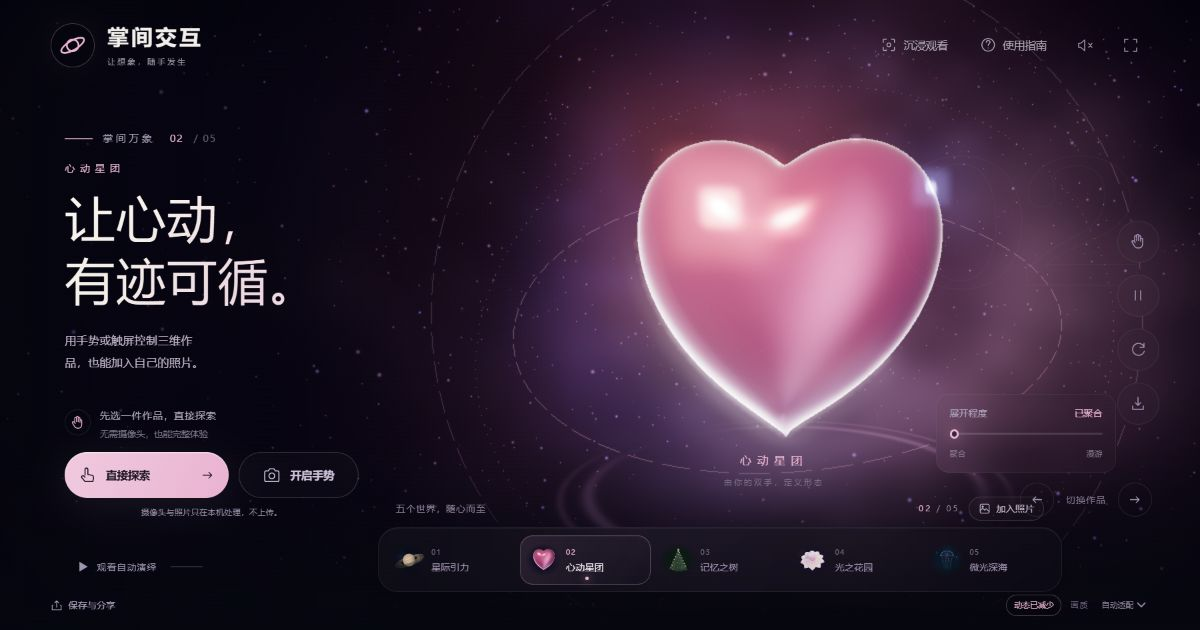
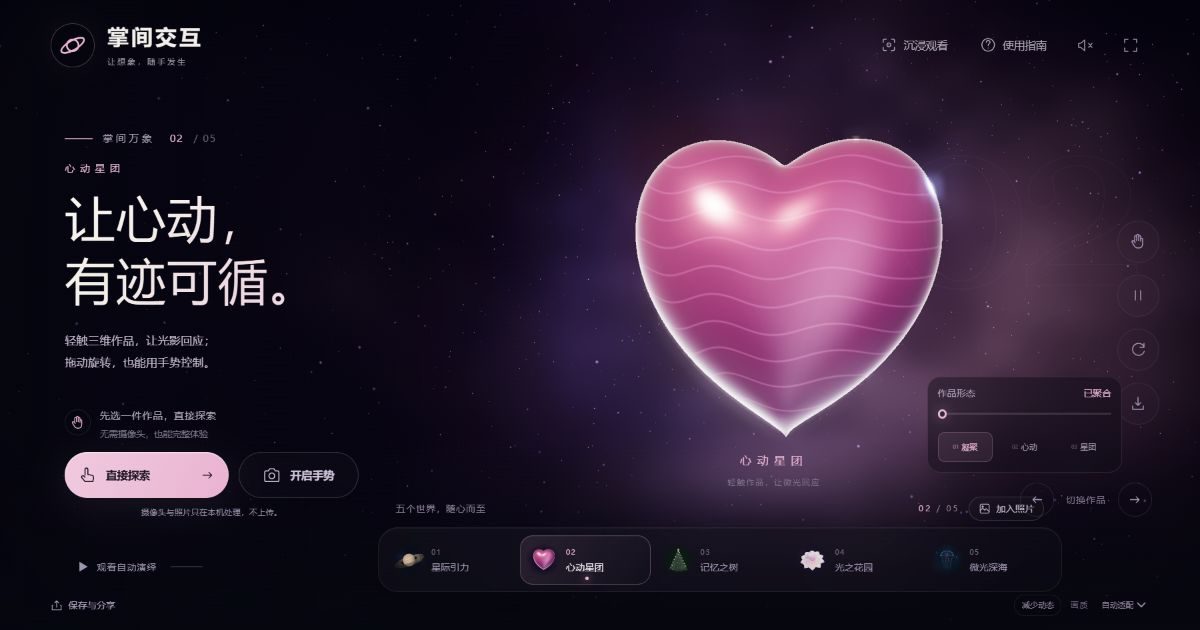
Give scenes distinct forms, viewing stages and responsive light

diff --git a/src/experience.js b/src/experience.js
@@ -9,10 +9,15 @@ import { studioEnvironment, createAtmosphere } from './atmosphere.js';
 import { orbitalPosition } from './swarm.js';
 import { createLightfield } from './lightfield.js';
 import {bindContextRecovery} from './context-recovery.js';
+import {Resonance} from './resonance.js';
+import {createResponseField} from './response-field.js';
+
+const PORTRAIT_SHAPES={heart:{normal:.79,compact:.78,offset:-.5},flower:{normal:.65,compact:.62,offset:-.22},ocean:{normal:.84,compact:.8,offset:.18}};
+const PORTRAIT_WIDTH={heart:.76,flower:.82,ocean:.7};
 
 export class Experience {
-  constructor(container, { onReady=()=>{}, onWorld=()=>{}, onPhotoFocus=()=>{}, onQuality=()=>{}, onPreviews=()=>{}, onMotion=()=>{}, onDemo=()=>{},onInteraction=()=>{},onContext=()=>{},onReducedMotion=()=>{},motionMode='auto' }={}) {
-    Object.assign(this,{container,onReady,onWorld,onPhotoFocus,onQuality,onPreviews,onMotion,onDemo,onInteraction,onContext,onReducedMotion});
+  constructor(container, { onReady=()=>{}, onWorld=()=>{}, onPhotoFocus=()=>{}, onQuality=()=>{}, onPreviews=()=>{}, onMotion=()=>{}, onDemo=()=>{},onInteraction=()=>{},onContext=()=>{},onReducedMotion=()=>{},onResponse=()=>{},motionMode='auto' }={}) {
+    Object.assign(this,{container,onReady,onWorld,onPhotoFocus,onQuality,onPreviews,onMotion,onDemo,onInteraction,onContext,onReducedMotion,onResponse});
     this.motionQuery=matchMedia('(prefers-reduced-motion: reduce)');this.motionOverridden=['reduce','full'].includes(motionMode);this.reducedMotion=this.motionOverridden?motionMode==='reduce':this.motionQuery.matches;
     this.motionHandler=()=>{if(!this.motionOverridden)this.setReducedMotion(this.motionQuery.matches);};this.motionQuery.addEventListener?.('change',this.motionHandler);
     this.scene=new THREE.Scene();this.scene.background=new THREE.Color('#060a13');
@@ -20,6 +25,7 @@ export class Experience {
     this.renderer=new THREE.WebGLRenderer({antialias:true,alpha:false,powerPreference:'high-performance'});
     this.renderer.outputColorSpace=THREE.SRGBColorSpace;this.renderer.toneMapping=THREE.ACESFilmicToneMapping;this.renderer.toneMappingExposure=1.12;
     this.renderer.domElement.setAttribute('aria-label','可拖动、缩放的三维互动场景');this.renderer.domElement.setAttribute('role','img');this.renderer.domElement.tabIndex=0;container.appendChild(this.renderer.domElement);
+    this.renderer.domElement.setAttribute('aria-keyshortcuts','Enter');this.renderer.domElement.setAttribute('aria-description','轻触唤起光波，拖动旋转，滚轮或双指缩放。键盘按回车键也能唤起光波。');
     this.mobile=matchMedia('(pointer:coarse)').matches||innerWidth<760;
     this.qualityMode='auto';this.quality=this.mobile?.58:1;this.pixelRatio=Math.min(devicePixelRatio||1,this.mobile?1.3:1.8);
     this.environmentTarget=studioEnvironment(this.renderer);this.environment=this.environmentTarget.texture;this.scene.environment=this.environment;
@@ -37,13 +43,15 @@ export class Experience {
     this.stars=makeStarfield();this.scene.add(this.stars.object);
     this.scatter=0;this.targetScatter=0;this.controlFraction=0;this.open=1;this.targetOpen=1;this.yaw=0;this.pitch=0;this.targetYaw=0;this.targetPitch=0;this.elapsed=0;this.frozen=false;this.lastTime=performance.now();this.lastUserInput=0;this.hasHands=false;this.photoLayer=new THREE.Group();this.scene.add(this.photoLayer);this.photos=[];this.photoFaces=[];this.raycaster=new THREE.Raycaster();this.pointer=new THREE.Vector2();this.lastPinch=false;this.grabbed=null;this.focused=null;this.lastDoubleHandDistance=null;
     this.makeTrail();
+    this.resonance=new Resonance();this.responseField=createResponseField();this.scene.add(this.responseField.root);
     this.resizeObserver=new ResizeObserver(()=>this.resize());this.resizeObserver.observe(container);this.resize();
     this.reveal=1;
     this.renderer.domElement.addEventListener('dblclick',()=>this.toggleSpread());
     this.activePointers=new Set();
     this.renderer.domElement.addEventListener('pointerdown',event=>{this.activePointers.add(event.pointerId);this.tapStart=this.activePointers.size===1?{id:event.pointerId,x:event.clientX,y:event.clientY,time:performance.now()}:null;});
-    this.renderer.domElement.addEventListener('pointerup',event=>{const start=this.tapStart;this.activePointers.delete(event.pointerId);if(start?.id===event.pointerId&&Math.hypot(event.clientX-start.x,event.clientY-start.y)<8&&performance.now()-start.time<500)this.pickPhoto(event.clientX/innerWidth,event.clientY/innerHeight,false);this.tapStart=null;});
+    this.renderer.domElement.addEventListener('pointerup',event=>{const start=this.tapStart;this.activePointers.delete(event.pointerId);if(start?.id===event.pointerId&&Math.hypot(event.clientX-start.x,event.clientY-start.y)<8&&performance.now()-start.time<500){const x=event.clientX/innerWidth,y=event.clientY/innerHeight;if(!this.pickPhoto(x,y,false))this.pulse(x,y);}this.tapStart=null;});
     this.renderer.domElement.addEventListener('pointercancel',event=>{this.activePointers.delete(event.pointerId);this.tapStart=null;});
+    this.renderer.domElement.addEventListener('keydown',event=>{if(event.key==='Enter'){event.preventDefault();this.onInteraction();this.pulse();}});
     this.slowTime=0;this.performanceFrames=0;this.performanceTime=0;this.performanceAdjusted=false;
     this.removeContextRecovery=bindContextRecovery(this.renderer.domElement,{pause:()=>{this.contextLost=true;cancelAnimationFrame(this.frame);this.setDemo(false);this.onContext('lost');},rebuild:()=>this.restoreGraphics(),resume:()=>{this.contextLost=false;this.resumeRendering();},onState:(state)=>{if(state!=='lost')this.onContext(state);}});
     this.ready=this.preparePreviews().then(()=>{if(this.disposed)return;this.prepared=true;this.resumeRendering();this.onReducedMotion(this.reducedMotion);this.onReady();});
@@ -65,14 +73,15 @@ export class Experience {
     const w=this.container.clientWidth,h=this.container.clientHeight;if(!w||!h)return;
     this.width=w;this.height=h;const portrait=w<=900&&h>w,shortLandscape=h<560&&w>h,compact=portrait&&h<730;
     this.camera.aspect=w/h;
-    this.homeDistance=this.immersive?(portrait?26:shortLandscape?21:18.5):portrait?(compact?45:32):shortLandscape?24:19.8;
+    this.homeDistance=this.immersive?(portrait?26:shortLandscape?21:18.5):portrait?(compact?45:36.5):shortLandscape?24:19.8;
     if(!this.wasSized||portrait!==this.wasPortrait||compact!==this.wasCompact||shortLandscape!==this.wasShortLandscape||this.immersive!==this.wasImmersive){this.camera.position.set(0,portrait?3.1:2.3,this.homeDistance);this.controls.target.set(0,0,0);this.controls.update();this.wasSized=true;this.wasPortrait=portrait;this.wasCompact=compact;this.wasShortLandscape=shortLandscape;this.wasImmersive=this.immersive;}
-    const yOffset=this.immersive?0:portrait?(compact?h*.065:h*.02):h*.035;
+    const yOffset=this.immersive?0:portrait?(compact?h*.115:h*.055):h*.035;
     this.camera.setViewOffset(w,h,portrait||this.immersive?0:-w*.155,yOffset,w,h);this.camera.updateProjectionMatrix();this.renderer.setPixelRatio(this.pixelRatio);this.renderer.setSize(w,h);this.composer.setPixelRatio(this.pixelRatio);this.composer.setSize(w,h);
   }
   setWorld(id) {
     const next=this.worlds.find(world=>world.id===id);if(!next||next===this.current)return;
-    this.current.root.visible=false;this.current=next;this.current.root.visible=true;this.reveal=0;this.scene.background.set(next.bg);this.atmosphere.setWorld(next);this.lightfield.setWorld(next);this.bloom.strength=next.id==='flower'?.38:next.id==='tree'?.7:next.id==='ocean'?.7:.58;this.bloom.threshold=next.id==='flower'?1.2:1.05;this.targetScatter=0;this.controlFraction=next.id==='flower'?.55:0;this.targetOpen=1;this.targetYaw=0;this.targetPitch=0;this.grabbed=null;this.focused=null;this.lastPinch=false;this.onPhotoFocus(null);this.onWorld(next);this.lastUserInput=performance.now();
+    this.resonance.reset();this.responseField.root.visible=false;
+    this.current.root.visible=false;this.current=next;this.current.root.visible=true;this.reveal=0;this.scene.background.set(next.bg);this.atmosphere.setWorld(next);this.lightfield.setWorld(next);this.bloom.strength=next.id==='flower'?.38:next.id==='tree'?.7:next.id==='ocean'?.7:next.id==='heart'?.4:.58;this.bloom.threshold=next.id==='flower'?1.2:1.05;this.targetScatter=0;this.controlFraction=next.id==='flower'?.55:0;this.targetOpen=1;this.targetYaw=0;this.targetPitch=0;this.grabbed=null;this.focused=null;this.lastPinch=false;this.onPhotoFocus(null);this.onWorld(next);this.lastUserInput=performance.now();
     this.camera.position.set(0,this.wasPortrait?3.1:2.3,this.homeDistance);this.controls.target.set(0,0,0);this.controls.update();
   }
   nextWorld(){const index=this.worlds.indexOf(this.current);this.setWorld(this.worlds[(index+1)%this.worlds.length].id);}
@@ -86,7 +95,9 @@ export class Experience {
     this.composer.render();
   }
   toggleSpread(){const expanded=this.targetScatter<.5;this.controlFraction=expanded?1:0;this.targetScatter=expanded?.94:0;this.targetOpen=expanded?1:.15;return expanded;}
-  setMorph(value,{immediate=false}={}){const amount=THREE.MathUtils.clamp(value,0,1);this.controlFraction=amount;if(this.current.id==='flower'){this.targetOpen=THREE.MathUtils.smoothstep(amount,0,.55);this.targetScatter=THREE.MathUtils.smoothstep(amount,.55,1)*.94;}else{this.targetScatter=amount*.94;this.targetOpen=.15+amount*.85;}if(immediate){this.scatter=this.targetScatter;this.open=this.targetOpen;}}
+  setMorph(value,{immediate=false,respond=false}={}){const amount=THREE.MathUtils.clamp(value,0,1);this.controlFraction=amount;if(this.current.id==='flower'){this.targetOpen=THREE.MathUtils.smoothstep(amount,0,.55);this.targetScatter=THREE.MathUtils.smoothstep(amount,.55,1)*.94;}else{this.targetScatter=amount*.94;this.targetOpen=.15+amount*.85;}if(immediate){this.scatter=this.targetScatter;this.open=this.targetOpen;}if(respond)this.pulse();}
+  pulse(x,y){if(!this.prepared||this.contextLost||!this.resonance.trigger(performance.now()))return false;this.showResponse(x,y);return true;}
+  showResponse(x,y){if(x===undefined||y===undefined){const p=this.controls.target.clone().project(this.camera);x=(p.x+1)/2;y=(1-p.y)/2;}this.responseField.fire(this.unproject(x,y,1),this.current.color);this.onResponse(this.current);}
   toggleFreeze(){this.frozen=!this.frozen;return this.frozen;}
   setQuality(mode){this.qualityMode=mode;this.quality=mode==='high'?1:mode==='low'?.38:(this.mobile?.58:1);this.pixelRatio=Math.min(devicePixelRatio||1,mode==='high'?1.9:mode==='low'?1:(this.mobile?1.3:1.8));this.resize();this.onQuality(mode);}
   resetView(){this.setDemo(false);this.controlFraction=this.current.id==='flower'?.55:0;this.targetScatter=0;this.targetOpen=1;this.targetYaw=0;this.targetPitch=0;this.frozen=false;this.grabbed=null;this.focused=null;this.onPhotoFocus(null);this.wasSized=false;this.resize();}
@@ -96,6 +107,7 @@ export class Experience {
     const hand=hands[0];this.lastUserInput=time;
     if(hands.length>1){const distance=Math.hypot(hands[0].x-hands[1].x,hands[0].y-hands[1].y);if(this.lastDoubleHandDistance!==null){const ratio=THREE.MathUtils.clamp(this.lastDoubleHandDistance/Math.max(distance,.1),.92,1.08);this.camera.position.multiplyScalar(ratio);const length=THREE.MathUtils.clamp(this.camera.position.length(),this.controls.minDistance,this.controls.maxDistance);this.camera.position.setLength(length);}this.lastDoubleHandDistance=distance;if(this.grabbed)this.releaseGrab();this.lastPinch=false;return;}else this.lastDoubleHandDistance=null;
     if(hand.pose==='palm'||hand.pose==='fist'){
+      if(this.resonance.observe(hand.openness,time))this.showResponse(hand.x,hand.y);
       this.targetOpen=hand.openness;
       this.targetScatter=this.current.id==='flower'?THREE.MathUtils.smoothstep(hand.openness,.72,1)*.94:THREE.MathUtils.smoothstep(hand.openness,.25,.9)*.94;
       this.controlFraction=this.current.id==='flower'?(this.targetOpen<.99?this.targetOpen*.55:.55+this.targetScatter/.94*.45):this.targetScatter/.94;
@@ -148,11 +160,13 @@ export class Experience {
     if(this.demo&&this.demoOnce&&this.elapsed-this.demoStart>=18){this.setMorph(0);this.setDemo(false,{completed:true});}
     if(this.demo){const phase=(this.elapsed-this.demoStart)%18,amount=phase<3?0:phase<9?THREE.MathUtils.smoothstep(phase,3,9):phase<12?1:1-THREE.MathUtils.smoothstep(phase,12,18);this.setMorph(amount);this.targetYaw=Math.sin(this.elapsed*.17)*.22;this.targetPitch=Math.sin(this.elapsed*.11)*.05;}
     this.scatter=THREE.MathUtils.damp(this.scatter,this.targetScatter,2.2,delta);this.open=THREE.MathUtils.damp(this.open,this.targetOpen,3,delta);this.yaw=THREE.MathUtils.damp(this.yaw,this.targetYaw,3,delta);this.pitch=THREE.MathUtils.damp(this.pitch,this.targetPitch,3,delta);
-    this.reveal=this.reducedMotion&&!this.demo?1:THREE.MathUtils.damp(this.reveal,1,3.4,delta);this.current.root.scale.setScalar(this.current.scale*(.65+this.reveal*.35));
+    const response=this.resonance.step(delta);
+    const portraitShape=this.wasPortrait&&!this.immersive?PORTRAIT_SHAPES[this.current.id]:null,spreadFit=portraitShape?THREE.MathUtils.lerp(1,this.wasCompact?portraitShape.compact:portraitShape.normal,THREE.MathUtils.smoothstep(this.scatter,.15,.85)):1;
+    this.reveal=this.reducedMotion&&!this.demo?1:THREE.MathUtils.damp(this.reveal,1,3.4,delta);this.current.root.scale.setScalar(this.current.scale*spreadFit*(.65+this.reveal*.35)*(1+(!this.reducedMotion&&!this.frozen?response*.025:0)));this.current.root.position.y=portraitShape?this.scatter*portraitShape.offset:0;
     this.current.root.rotation.y=this.yaw+(!this.hasHands?Math.sin(this.elapsed*.11)*.09:0)+(1-this.reveal)*.45;this.current.root.rotation.x=this.pitch;
     this.controls.autoRotate=false;this.controls.update();
-    const framing=this.wasPortrait?.62:1;
-    updateWorld(this.current,this.elapsed,this.scatter,this.open,this.quality,framing);this.stars.update(this.elapsed,0);this.stars.quality(this.quality);this.stars.object.rotation.y=this.elapsed*.001;this.atmosphere.update(this.elapsed);this.lightfield.update(this.elapsed,this.scatter,this.quality,framing,this.camera);
+    const framing=this.wasPortrait?(PORTRAIT_WIDTH[this.current.id]||.62):1;
+    updateWorld(this.current,this.elapsed,this.scatter,this.open,this.quality,framing,response);this.stars.update(this.elapsed,0);this.stars.quality(this.quality);this.stars.object.rotation.y=this.elapsed*.001;this.atmosphere.update(this.elapsed);this.lightfield.update(this.elapsed,this.scatter,this.quality,framing,this.camera,response);this.responseField.update(this.resonance.age,response,this.reducedMotion,this.camera);
     const fraction=this.current.id==='flower'?(this.open<.99?this.open*.55:.55+this.scatter/.94*.45):this.scatter/.94;this.onMotion({fraction,controlFraction:this.controlFraction,expanded:this.targetScatter>.5,world:this.current.id});
     this.trail.material.uniforms.uTime.value=this.trailClock||0;
     this.current.root.updateMatrixWorld(true);

diff --git a/src/worlds.js b/src/worlds.js
@@ -1,8 +1,9 @@
 import * as THREE from 'three';
 import { mergeVertices } from 'three/addons/utils/BufferGeometryUtils.js';
-import { createSwarm, orbitalPosition } from './swarm.js';
+import { createSwarm } from './swarm.js';
 import { heartSurface, crystalHeart, pineBranches, petalTexture, orbitLines } from './sculptures.js';
 import { jellyModel as detailedJelly } from './jelly.js';
+import {heartCloud,galaxyArm,oceanCurrent} from './scene-layout.js';
 
 const TAU = Math.PI * 2;
 export const WORLD_INFO = [
@@ -89,7 +90,7 @@ function createSaturn(info, texture) {
   field.object.rotation.x=0;
   const orbitDust=addField(world,new ParticleField(2800,(r)=>{const rad=6+Math.pow(r(),.5)*5,a=r()*TAU;return [Math.cos(a)*rad,(r()-.5)*.8,Math.sin(a)*rad];},['#99a8ba','#6c76a0','#a58d70'],{size:.025,brightness:.32,seed:26}));orbitDust.object.rotation.set(.14,.2,.2);
   const moon=new THREE.Mesh(new THREE.SphereGeometry(.26,32,20),new THREE.MeshStandardMaterial({color:'#6e7784',roughness:.95,envMapIntensity:.08}));moon.position.set(5.9,1.3,-5.4);world.body.add(moon);remember(world,moon);
-  const littlePlanets=createSwarm({geometry:new THREE.SphereGeometry(1,24,16),material:new THREE.MeshStandardMaterial({map,roughness:.72,metalness:.08,envMapIntensity:.2}),count:76,random:randomFactory(818),target:r=>{const a=r()*TAU,rad=r()<.55?1.3+r()*1.1:3+r()*2.2;return[Math.cos(a)*rad,(r()-.5)*1.8,Math.sin(a)*rad];},palette:['#d1b18c','#929eac','#b89d9e'],size:.21,spin:.14,destination:(r,i,n)=>orbitalPosition(r,i,n,{radius:6.5,bands:3,height:3.8,depth:2.9})});
+  const littlePlanets=createSwarm({geometry:new THREE.SphereGeometry(1,24,16),material:new THREE.MeshStandardMaterial({map,roughness:.72,metalness:.08,envMapIntensity:.2}),count:76,random:randomFactory(818),target:r=>{const a=r()*TAU,rad=r()<.55?1.3+r()*1.1:3+r()*2.2;return[Math.cos(a)*rad,(r()-.5)*1.8,Math.sin(a)*rad];},palette:['#d1b18c','#929eac','#b89d9e'],size:.21,spin:.14,destination:galaxyArm});
   const littleRings=new THREE.InstancedMesh(new THREE.RingGeometry(1.38,2.2,48).rotateX(-1.12).rotateZ(.28),new THREE.MeshStandardMaterial({color:'#b19b77',roughness:.65,metalness:.2,side:THREE.DoubleSide}),76);littleRings.frustumCulled=false;littleRings.instanceMatrix.setUsage(THREE.DynamicDrawUsage);world.body.add(littlePlanets.mesh,littleRings);
   const orbits=orbitLines();world.body.add(orbits.group);
   sphere.material.transparent=true;
@@ -121,16 +122,16 @@ function createHeart(info,texture) {
   const geometry=roundedHeartGeometry();
   const sculpture=crystalHeart(geometry),heart=sculpture.root;heart.rotation.y=-.18;world.body.add(heart);
   const heartVolume=r=>{const p=heartSurface(Math.acos(r()*2-1),r()*TAU),k=Math.pow(r(),1/3);return p.map((v,i)=>i===1?(v+.35)*k-.35:v*k);};
-  const hearts=createSwarm({geometry:roundedHeartGeometry(32,12),material:new THREE.MeshPhysicalMaterial({color:'#ffffff',metalness:.5,roughness:.16,clearcoat:1,iridescence:.32,envMapIntensity:1.25}),count:320,random:randomFactory(735),target:heartVolume,palette:['#e993bc','#bc578b','#f3c8db','#d4b1a0'],size:.064,spin:.13,destination:(r,i,n)=>orbitalPosition(r,i,n,{radius:6.5,bands:3,height:4.2,depth:2.6})});
+  const hearts=createSwarm({geometry:roundedHeartGeometry(28,10),material:new THREE.MeshPhysicalMaterial({color:'#ffffff',metalness:.3,roughness:.26,clearcoat:.7,iridescence:.24,envMapIntensity:1.1}),count:440,random:randomFactory(735),target:heartVolume,palette:['#e993bc','#ba4a80','#edc8db','#c89fc8'],size:.065,spin:.13,destination:heartCloud});
   world.body.add(hearts.mesh);
   const sparkles=addField(world,new ParticleField(1800,r=>{const p=heartSurface(Math.acos(r()*2-1),r()*TAU),scale=1.015+r()*.05;return p.map(v=>v*scale);},['#f2bad5','#d3b0ed','#f0d4b9'],{size:.018,brightness:.55}),heart);
   const halo=nebula(world.body,'#bc417b',texture,[0,.2,-1],10,.1);remember(world,halo);
   nebula(world.root,'#713468',texture,[5,0,-9],24,.13);nebula(world.root,'#50357a',texture,[-8,-4,-12],22,.1);
   world.photoTarget=(i,n)=>{const a=i/n*TAU;return new THREE.Vector3(Math.cos(a)*5.1,Math.sin(a)*3.8+.3,Math.sin(a*2)*1.5+1);};
-  world.update=(time,scatter,openness,quality,framing)=>{
+  world.update=(time,scatter,openness,quality,framing,response=0)=>{
     const dissolve=THREE.MathUtils.smoothstep(scatter,.16,.7),beat=1+Math.sin(time*1.8)*.009;
     heart.rotation.y=-.2+Math.sin(time*.19)*.11;heart.scale.setScalar(beat*(1-dissolve*.06));
-    sculpture.update(time,1-dissolve);heart.visible=dissolve<.998;
+    sculpture.update(time,1-dissolve,response);heart.visible=dissolve<.998;
     hearts.update(time,scatter,quality,THREE.MathUtils.smoothstep(scatter,.15,.85),framing);
     sparkles.material.uniforms.uOpacity.value=.13*(1-dissolve);halo.material.opacity=.065*(1-scatter*.35);
   };
@@ -180,7 +181,7 @@ function createFlower(info,texture) {
   world.photoTarget=(i,n)=>{const a=i/n*TAU;return new THREE.Vector3(Math.cos(a)*5,Math.sin(a)*3.4,Math.sin(a)*1.5);};
   world.update=(time,scatter,openness,quality,framing)=>{
     const fold=1-THREE.MathUtils.clamp(openness,0,1),flight=THREE.MathUtils.smoothstep(scatter,.28,.94);
-    petals.forEach((petal,i)=>{const {angle,layer,baseY}=petal.userData;petal.morphTargetInfluences[0]=(1-THREE.MathUtils.smoothstep(openness,layer*.08,.68+layer*.1))*.88;petal.position.set(Math.sin(angle)*(3.2+layer*.5)*flight*framing,baseY+Math.sin(i*2.1)*2.8*flight,Math.cos(angle)*(3.2+layer*.5)*flight);petal.rotation.y=angle+flight*Math.sin(time*.14+i)*.65;petal.rotation.x=flight*Math.sin(time*.23+i)*.5;petal.rotation.z=Math.sin(time*.38+i)*(.012+flight*.35);petal.scale.setScalar(1-flight*.3);});
+    petals.forEach((petal,i)=>{const {angle,layer,baseY}=petal.userData,path=angle+flight*1.25+Math.sin(time*.1+i)*flight*.2;petal.morphTargetInfluences[0]=(1-THREE.MathUtils.smoothstep(openness,layer*.08,.68+layer*.1))*.88;petal.position.set(Math.sin(path)*(3.2+layer*.5)*flight*framing,baseY+(Math.sin(i*2.1)*2.8+(i%5)*.28-.6)*flight,Math.cos(path)*(3.2+layer*.5)*flight*.72);petal.rotation.y=path+flight*Math.sin(time*.14+i)*.3;petal.rotation.x=flight*Math.sin(time*.23+i)*.5;petal.rotation.z=Math.sin(time*.38+i)*(.012+flight*.35);petal.scale.setScalar(1-flight*.3);});
     flower.rotation.y=Math.sin(time*.12)*.1;flower.scale.setScalar(1);stamen.material.transparent=true;stamen.material.opacity=(1-fold*.9)*(1-flight);pollen.material.uniforms.uOpacity.value=.6;
   };
   return world;
@@ -189,7 +190,7 @@ function createFlower(info,texture) {
 function createOcean(info,texture) {
   const world=baseWorld(info,texture),jellies=[detailedJelly(1,[0,1.4,0]),detailedJelly(.28,[-4.3,2.3,-4],{detail:.5}),detailedJelly(.38,[4.1,.4,-5],{detail:.5})];jellies.forEach(j=>world.body.add(j.root));
   const nursery=detailedJelly(1,[0,0,0],{detail:.5}),babyCount=26;
-  const babies=createSwarm({geometry:nursery.bellGeometry,material:nursery.material,count:babyCount,random:randomFactory(644),target:r=>{const a=r()*TAU,rad=r()*1.6;return[Math.cos(a)*rad,1+r()*1.5,Math.sin(a)*rad];},palette:['#9deae7','#c5aceb'],size:.23,spin:.04,destination:(r,i,n)=>orbitalPosition(r,i,n,{radius:6,bands:3,height:4.4,depth:3})});
+  const babies=createSwarm({geometry:nursery.bellGeometry,material:nursery.material,count:babyCount,random:randomFactory(644),target:r=>{const a=r()*TAU,rad=r()*1.6;return[Math.cos(a)*rad,1+r()*1.5,Math.sin(a)*rad];},palette:['#9deae7','#c5aceb'],size:.23,spin:.04,destination:oceanCurrent});
   const parts=[[nursery.tendrilGeometry,nursery.tendrilMaterial],[nursery.armGeometry,nursery.armMaterial],[nursery.ring.geometry,nursery.ring.material],[nursery.organGeometry,nursery.organMaterial]].map(([geometry,material])=>{const mesh=new THREE.InstancedMesh(geometry,material,babyCount);mesh.frustumCulled=false;mesh.instanceMatrix.setUsage(THREE.DynamicDrawUsage);return mesh;});world.body.add(babies.mesh,...parts);
   addField(world,new ParticleField(2000,r=>[(r()-.5)*18,(r()-.5)*15,-2-r()*10],['#547f91','#747a9c','#6eaaa9'],{size:.035,brightness:.35}));
   nebula(world.root,'#1b627b',texture,[0,7,-10],27,.16);nebula(world.root,'#263955',texture,[-6,-5,-10],23,.13);
@@ -211,7 +212,7 @@ export function makeStarfield() {
   const rng=randomFactory(2026),field=new ParticleField(1600,()=>{const a=rng()*TAU,z=rng()*2-1,r=35+rng()*32,s=Math.sqrt(1-z*z);return[Math.cos(a)*s*r,z*r,Math.sin(a)*s*r];},['#b5bacb','#91a3bf','#a99a9b'],{size:.085,brightness:.48});return field;
 }
 
-export function updateWorld(world,time,scatter,openness,quality,framing=1) {
+export function updateWorld(world,time,scatter,openness,quality,framing=1,response=0) {
   world.fields.forEach(field=>{field.update(time,scatter);field.quality(quality);});
-  world.update?.(time,scatter,openness,quality,framing);
+  world.update?.(time,scatter,openness,quality,framing,response);
 }

diff --git a/src/lightfield.js b/src/lightfield.js
@@ -7,21 +7,21 @@ const vertex = `varying vec2 vUv;void main(){vUv=uv;gl_Position=projectionMatrix
 export function createLightfield() {
   const root = new THREE.Group();
   const color = new THREE.Color('#e1bb87'), secondary = new THREE.Color('#6d82c8');
-  const uniforms = {uTime:{value:0},uColor:{value:color},uSecondary:{value:secondary},uEnergy:{value:0},uOcean:{value:0}};
+  const uniforms = {uTime:{value:0},uColor:{value:color},uSecondary:{value:secondary},uEnergy:{value:0},uOcean:{value:0},uStyle:{value:0}};
   const haze = new THREE.Mesh(new THREE.PlaneGeometry(38,27),new THREE.ShaderMaterial({
     uniforms,vertexShader:vertex,transparent:true,depthWrite:false,blending:THREE.AdditiveBlending,
-    fragmentShader:`varying vec2 vUv;uniform float uTime;uniform vec3 uColor;uniform vec3 uSecondary;uniform float uEnergy;
+    fragmentShader:`varying vec2 vUv;uniform float uTime;uniform vec3 uColor;uniform vec3 uSecondary;uniform float uEnergy;uniform float uStyle;
     float hash(vec2 p){return fract(sin(dot(p,vec2(127.1,311.7)))*43758.5453);}
     float noise(vec2 p){vec2 i=floor(p),f=fract(p);f=f*f*(3.-2.*f);return mix(mix(hash(i),hash(i+vec2(1.,0.)),f.x),mix(hash(i+vec2(0.,1.)),hash(i+vec2(1.,1.)),f.x),f.y);}
     float fbm(vec2 p){float f=0.,a=.5;for(int i=0;i<3;i++){f+=noise(p)*a;p=p*2.07+3.1;a*=.5;}return f;}
-    void main(){vec2 p=(vUv-.5)*vec2(1.25,1.);float r=length(p);float mist=fbm(p*5.+vec2(uTime*.012,-uTime*.009));float cloud=exp(-r*r*12.)*pow(mist,1.8);float halo=exp(-pow((r-.28)*18.,2.))*.14;float ray=pow(max(0.,1.-abs(p.x+p.y*.26)*2.5),8.)*exp(-length(p-vec2(.05,.12))*4.);vec3 c=mix(uSecondary,uColor,smoothstep(-.3,.4,p.x));float a=(cloud*.35+halo*.12+ray*.025)*(1.+uEnergy*.35);gl_FragColor=vec4(c*(.65+mist),a);}`
+    void main(){vec2 p=(vUv-.5)*vec2(1.25,1.);float r=length(p);float mist=fbm(p*5.+vec2(uTime*.012,-uTime*.009));float cloud=exp(-r*r*12.)*pow(mist,1.8);float halo=exp(-pow((r-.28)*18.,2.))*.14;float ray=pow(max(0.,1.-abs(p.x+p.y*.26)*2.5),8.)*exp(-length(p-vec2(.05,.12))*4.);float curtain=0.;if(uStyle>3.5){curtain=pow(max(0.,sin((p.x+p.y*.22)*32.+sin(p.y*3.+uTime*.04)*.8)),16.)*smoothstep(-.45,.3,p.y)*exp(-abs(p.x)*3.)*.11;halo=0.;}else if(uStyle>1.5&&uStyle<2.5){curtain=pow(max(0.,sin(p.x*17.+mist*3.+uTime*.045)),6.)*smoothstep(-.35,.3,p.y)*exp(-r*2.)*.035;halo=0.;}vec3 c=mix(uSecondary,uColor,smoothstep(-.3,.4,p.x));float a=(cloud*.29+halo*.08+ray*.025+curtain)*(1.+uEnergy*.35);gl_FragColor=vec4(c*(.65+mist),a);}`
   }));
   haze.position.set(0,0,-10);root.add(haze);
 
   const floor = new THREE.Mesh(new THREE.PlaneGeometry(32,32),new THREE.ShaderMaterial({
     uniforms,vertexShader:vertex,transparent:true,depthWrite:false,blending:THREE.AdditiveBlending,side:THREE.DoubleSide,
-    fragmentShader:`varying vec2 vUv;uniform float uTime;uniform vec3 uColor;uniform vec3 uSecondary;uniform float uEnergy;uniform float uOcean;
-    void main(){vec2 p=(vUv-.5)*2.;float r=length(p);float glow=exp(-r*r*22.);float rim=exp(-pow((r-.3)*100.,2.))*.1+exp(-pow((r-.34)*170.,2.))*.055;float wave=pow(max(0.,sin(r*75.-uTime*.8)),18.)*exp(-r*7.)*.13*uOcean;float arc=.5+.5*sin(atan(p.y,p.x)*2.+uTime*.13);vec3 c=mix(uSecondary,uColor,.72);gl_FragColor=vec4(c,(glow*.035+rim*arc+wave)*(1.+uEnergy*.6));}`
+    fragmentShader:`varying vec2 vUv;uniform float uTime;uniform vec3 uColor;uniform vec3 uSecondary;uniform float uEnergy;uniform float uOcean;uniform float uStyle;
+    void main(){vec2 p=(vUv-.5)*2.;float r=length(p);float glow=exp(-r*r*22.);float rim=(exp(-pow((r-.3)*100.,2.))*.1+exp(-pow((r-.34)*170.,2.))*.055)*(1.-step(.5,uStyle));float wave=pow(max(0.,sin(r*75.-uTime*.8)),18.)*exp(-r*7.)*.13*uOcean;float arc=.5+.5*sin(atan(p.y,p.x)*2.+uTime*.13);vec3 c=mix(uSecondary,uColor,.72);gl_FragColor=vec4(c,(glow*.09+rim*arc+wave)*(1.+uEnergy*.6));}`
   }));
   floor.rotation.x=-Math.PI/2;floor.position.y=-4.7;root.add(floor);
 
@@ -48,11 +48,11 @@ export function createLightfield() {
 
   const targetColor=color.clone(),targetSecondary=secondary.clone();
   let worldId='saturn';
-  return {root,setWorld(world){worldId=world.id;targetColor.set(world.color);targetSecondary.set({saturn:'#687fd1',heart:'#9979e5',tree:'#448d7b',flower:'#9b85d4',ocean:'#a67cdb'}[world.id]);uniforms.uOcean.value=world.id==='ocean'?1:0;},
-    update(time,scatter,quality,framing,camera){
-      color.lerp(targetColor,.035);secondary.lerp(targetSecondary,.035);uniforms.uTime.value=time;uniforms.uEnergy.value=scatter;
+  return {root,setWorld(world){worldId=world.id;targetColor.set(world.color);targetSecondary.set({saturn:'#687fd1',heart:'#9979e5',tree:'#448d7b',flower:'#9b85d4',ocean:'#a67cdb'}[world.id]);uniforms.uOcean.value=world.id==='ocean'?1:0;uniforms.uStyle.value=['saturn','heart','tree','flower','ocean'].indexOf(world.id);},
+    update(time,scatter,quality,framing,camera,response=0){
+      color.lerp(targetColor,.035);secondary.lerp(targetSecondary,.035);uniforms.uTime.value=time;uniforms.uEnergy.value=scatter+response*.5;
       haze.quaternion.copy(camera.quaternion);orbits.rotation.y=time*.025;orbits.rotation.z=-.12+Math.sin(time*.08)*.035;orbits.scale.set(framing,1,1);
-      const visibility={saturn:.18,heart:.13,tree:.08,flower:.11,ocean:.09}[worldId];
+      const visibility=worldId==='saturn'?.14:0;
       orbitMaterials.forEach((m,i)=>{m.color.copy(color);m.opacity=visibility*(1-i*.2)*(1+scatter*.4);});
       dust.material.uniforms.uFraming.value=framing;geometry.setDrawRange(0,Math.max(400,Math.round(count*quality)));floor.material.uniforms.uTime.value=time;
     }

diff --git a/src/sculptures.js b/src/sculptures.js
@@ -14,20 +14,26 @@ export function heartSurface(phi,theta,depth=1.8) {
 
 export function crystalHeart(geometry) {
   const root=new THREE.Group();
-  const material=new THREE.MeshPhysicalMaterial({color:'#d36697',roughness:.16,metalness:.46,transmission:0,thickness:2.4,clearcoat:1,clearcoatRoughness:.08,ior:1.48,iridescence:.45,iridescenceIOR:1.38,iridescenceThicknessRange:[180,430],envMapIntensity:1.55,emissive:'#4a1233',emissiveIntensity:.16,transparent:true,opacity:1});
+  const motion={time:{value:0},response:{value:0}};
+  const material=new THREE.MeshPhysicalMaterial({color:'#c85490',roughness:.28,metalness:.34,transmission:0,thickness:2.4,clearcoat:.8,clearcoatRoughness:.2,ior:1.48,iridescence:.35,iridescenceIOR:1.38,iridescenceThicknessRange:[180,430],envMapIntensity:1.15,emissive:'#4a1233',emissiveIntensity:.14,transparent:true,opacity:1});
   material.onBeforeCompile=shader=>{
+    shader.uniforms.uArtTime=motion.time;shader.uniforms.uResponse=motion.response;
     shader.vertexShader=shader.vertexShader.replace('#include <common>','#include <common>\nvarying vec3 vStone;').replace('#include <begin_vertex>','#include <begin_vertex>\nvStone=position;');
-    shader.fragmentShader=shader.fragmentShader.replace('#include <common>','#include <common>\nvarying vec3 vStone;').replace('#include <color_fragment>',`#include <color_fragment>
+    shader.fragmentShader=shader.fragmentShader.replace('#include <common>','#include <common>\nvarying vec3 vStone;uniform float uArtTime;uniform float uResponse;').replace('#include <color_fragment>',`#include <color_fragment>
       float gradient=smoothstep(-3.5,3.3,vStone.y);
-      diffuseColor.rgb*=mix(vec3(.66,.38,.62),vec3(1.15,.89,.91),gradient);`);
+      float contour=vStone.y*10.+sin(vStone.x*2.4+vStone.z*.9)*1.3+sin(vStone.z*3.-uArtTime*.18)*.38;
+      float etch=pow(.5+.5*cos(contour),75.);
+      diffuseColor.rgb*=mix(vec3(.35,.16,.44),vec3(1.07,.86,.94),gradient);
+      diffuseColor.rgb+=vec3(.09,.035,.065)*etch;`).replace('#include <emissivemap_fragment>',`#include <emissivemap_fragment>
+      totalEmissiveRadiance+=vec3(.4,.08,.23)*etch*(.24+uResponse*.9);`);
   };
-  material.customProgramCacheKey=()=> 'palm-liquid-pearl-3';
+  material.customProgramCacheKey=()=> 'palm-engraved-pearl-4';
   const core=new THREE.Mesh(geometry,material);root.add(core);
   const rimMaterial=new THREE.ShaderMaterial({transparent:true,depthWrite:false,blending:THREE.AdditiveBlending,uniforms:{uTime:{value:0},uOpacity:{value:1}},
     vertexShader:`varying vec3 vN;varying vec3 vP;varying vec3 vLocal;void main(){vLocal=position;vN=normalize(normalMatrix*normal);vec4 mv=modelViewMatrix*vec4(position*1.003,1.);vP=mv.xyz;gl_Position=projectionMatrix*mv;}`,
     fragmentShader:`uniform float uTime;uniform float uOpacity;varying vec3 vN;varying vec3 vP;varying vec3 vLocal;void main(){float fresnel=pow(1.-abs(dot(normalize(vN),normalize(-vP))),3.);vec3 c=mix(vec3(.54,.25,.69),vec3(1.,.62,.62),smoothstep(-3.,3.,vLocal.y));gl_FragColor=vec4(c*1.35,fresnel*.32*uOpacity);}`});
   root.add(new THREE.Mesh(geometry,rimMaterial));
-  return {root,material,update(time,opacity){core.visible=opacity>.005;material.opacity=opacity;rimMaterial.uniforms.uTime.value=time;rimMaterial.uniforms.uOpacity.value=opacity;}};
+  return {root,material,update(time,opacity,response=0){motion.time.value=time;motion.response.value=response;core.visible=opacity>.005;material.opacity=opacity;rimMaterial.uniforms.uTime.value=time;rimMaterial.uniforms.uOpacity.value=opacity;}};
 }
 
 export function pineBranches(random,count=1800) {

diff --git a/src/art-direction.css b/src/art-direction.css
@@ -1,0 +1,27 @@
+.morph-panel{right:5%;bottom:22%;width:210px;padding:12px 13px;border-color:#ffffff18;background:linear-gradient(140deg,#19111e85,#0b0a1580)}
+.morph-ends{display:none}
+.stage-presets{display:grid;grid-template-columns:repeat(3,minmax(0,1fr));gap:4px;margin-top:3px}
+.stage-button{min-height:34px;display:flex;align-items:center;justify-content:center;gap:5px;padding:6px 2px;border:1px solid transparent;border-radius:7px;color:#a799b2;font-size:9px;white-space:nowrap}
+.stage-button i{font-size:6px;font-style:normal;opacity:.5;letter-spacing:0}
+.stage-button:hover{background:#ffffff08;color:var(--accent)}
+.stage-button[aria-pressed=true]{border-color:color-mix(in srgb,var(--accent) 24%,transparent);background:color-mix(in srgb,var(--accent) 9%,transparent);color:var(--accent)}
+.world-note{display:block;margin:10px 0 1px;color:#9e8fab;font-size:8px;line-height:1.7;letter-spacing:.2px}
+.scene-caption>span:last-child{letter-spacing:1.3px}
+.scene canvas:focus-visible{outline:1px solid color-mix(in srgb,var(--accent) 35%,transparent);outline-offset:-8px}
+@media(max-width:1250px) and (orientation:landscape){.morph-panel{width:195px;right:6.5%}.stage-button{font-size:8px;gap:3px}.stage-button i{font-size:5px}.world-note{font-size:7px}}
+@media(max-height:700px) and (min-width:901px){.morph-panel{bottom:25%;padding:10px}.world-note{display:none}.stage-button{min-height:30px}}
+@media(max-width:900px) and (orientation:portrait){
+ .world-intro h1{font-size:32px;line-height:1.17}
+ .functional-copy{font-size:9px;line-height:1.7;max-width:300px;letter-spacing:0;text-wrap:pretty;margin-top:12px}
+ .morph-panel{left:30px;right:30px;bottom:263px;width:auto;padding:0;border:0;background:none;backdrop-filter:none}
+ .morph-heading{font-size:8px}
+ .stage-presets{gap:6px;margin-top:3px}
+ .stage-button{min-height:34px;border-color:#ffffff13;border-radius:9px;font-size:10px;gap:8px;background:#ffffff03}
+ .stage-button i{font-size:7px}
+ .world-note{display:none}
+ .tools-toggle{top:204px}
+ .scene-tools{top:245px}
+}
+@media(min-width:600px) and (max-width:900px) and (orientation:portrait){.world-intro h1{font-size:44px}.functional-copy{font-size:12px;max-width:380px}.morph-panel{left:48px;right:48px;bottom:273px}.stage-button{min-height:40px;font-size:12px}.tools-toggle{top:242px}.scene-tools{top:284px}}
+@media(max-height:730px) and (orientation:portrait){.world-intro{width:calc(100% - 56px)}.world-intro h1{font-size:21px;line-height:1.3;white-space:normal;letter-spacing:.5px}.morph-panel{left:28px;right:28px;bottom:198px}.stage-button{min-height:30px;font-size:9px}.stage-presets{margin-top:1px}.morph-heading{font-size:8px}.tools-toggle{top:145px}.scene-tools{top:181px}#app[data-camera=on] .world-intro h1{font-size:21px;max-width:calc(100% - 65px)}}
+@media(orientation:landscape) and (max-height:560px){.functional-copy{display:none}.morph-panel{left:max(37px,calc(env(safe-area-inset-left,0px) + 8px));right:auto;bottom:100px;width:234px;padding:9px 10px;border-radius:10px}.stage-button{min-height:26px;font-size:9px;gap:3px}.stage-button i{display:none}.world-note{display:none}}

diff --git a/src/response-field.js b/src/response-field.js
@@ -1,0 +1,21 @@
+import * as THREE from 'three';
+
+export function createResponseField(){
+  const root=new THREE.Group();root.visible=false;
+  const uniforms={uAge:{value:10},uPower:{value:0},uColor:{value:new THREE.Color('#edcc9f')},uReduced:{value:0}};
+  const wave=new THREE.Mesh(new THREE.PlaneGeometry(11,11),new THREE.ShaderMaterial({
+    uniforms,transparent:true,depthWrite:false,blending:THREE.AdditiveBlending,
+    vertexShader:`varying vec2 vUv;void main(){vUv=uv;gl_Position=projectionMatrix*modelViewMatrix*vec4(position,1.);}`,
+    fragmentShader:`uniform float uAge;uniform float uPower;uniform float uReduced;uniform vec3 uColor;varying vec2 vUv;
+    void main(){vec2 p=(vUv-.5)*2.;float r=length(p),radius=mix(.07+min(uAge*.58,.85),.22,uReduced);float ring=exp(-pow((r-radius)*95.,2.));float mist=exp(-r*r*22.)*.09;float a=(ring*.48+mist)*uPower;gl_FragColor=vec4(uColor*1.7,a);}`
+  }));root.add(wave);
+  const positions=[],seeds=[];
+  for(let i=0;i<144;i++){const a=i*2.3999632297,r=.4+(i*.75487766625)%1;positions.push(Math.cos(a)*r,Math.sin(a)*r,Math.sin(i*1.7)*.55);seeds.push((i*.61803398875)%1);}
+  const geometry=new THREE.BufferGeometry();geometry.setAttribute('position',new THREE.Float32BufferAttribute(positions,3));geometry.setAttribute('aSeed',new THREE.Float32BufferAttribute(seeds,1));
+  const sparks=new THREE.Points(geometry,new THREE.ShaderMaterial({
+    uniforms,transparent:true,depthWrite:false,blending:THREE.AdditiveBlending,
+    vertexShader:`uniform float uAge;uniform float uReduced;attribute float aSeed;varying float vLight;void main(){vec3 p=position*(.16+uAge*2.8)*(1.-uReduced);p.y+=uAge*uAge*.18*(1.-uReduced);vec4 mv=modelViewMatrix*vec4(p,1.);gl_Position=projectionMatrix*mv;gl_PointSize=clamp((2.+aSeed*3.)*14./-mv.z,1.,6.);vLight=.4+aSeed*.6;}`,
+    fragmentShader:`uniform float uPower;uniform float uReduced;uniform vec3 uColor;varying float vLight;void main(){float r=length(gl_PointCoord-.5)*2.;if(r>1.)discard;gl_FragColor=vec4(uColor*2.,exp(-r*r*5.)*uPower*vLight*(1.-uReduced));}`
+  }));sparks.frustumCulled=false;root.add(sparks);
+  return{root,fire(position,color){root.position.copy(position);uniforms.uColor.value.set(color);},update(age,power,reduced,camera){root.visible=power>.004;uniforms.uAge.value=age;uniforms.uPower.value=power;uniforms.uReduced.value=reduced?1:0;wave.quaternion.copy(camera.quaternion);}};
+}

diff --git a/tests/art-direction.test.js b/tests/art-direction.test.js
@@ -1,0 +1,39 @@
+import test from 'node:test';
+import assert from 'node:assert/strict';
+import {heartCloud,galaxyArm,oceanCurrent} from '../src/scene-layout.js';
+import {Resonance} from '../src/resonance.js';
+
+function random(seed=87){return()=>{seed=(seed*1664525+1013904223)>>>0;return seed/4294967296;};}
+
+test('released scenes remain bounded in depth and heart fragments fill the center',()=>{
+  for(const shape of [heartCloud,galaxyArm,oceanCurrent]){
+    const r=random(),points=Array.from({length:440},(_,i)=>shape(r,i));
+    for(const count of [154,255,440]){
+      const visible=points.slice(0,count);
+      assert.ok(visible.every(p=>p.every(v=>Number.isFinite(v)&&Math.abs(v)<7)));
+      for(let axis=0;axis<3;axis++){
+        assert.ok(Math.min(...visible.map(p=>p[axis]))<-1.5);
+        assert.ok(Math.max(...visible.map(p=>p[axis]))>1.5);
+      }
+    }
+    if(shape===heartCloud)assert.ok(points.filter(p=>Math.abs(p[0])<1.8&&Math.abs(p[1])<1.8&&Math.abs(p[2])<2.5).length>44);
+  }
+});
+
+test('a sustained open palm emits once and closing the hand rearms the response',()=>{
+  const response=new Resonance();
+  assert.equal(response.observe(.9,100),true);
+  assert.equal(response.observe(.92,700),false);
+  assert.equal(response.observe(.1,900),false);
+  assert.equal(response.observe(.85,1200),true);
+  assert.equal(response.trigger(1300),false);
+  assert.equal(response.trigger(1700),true);
+});
+
+test('response light decays equally at phone and desktop frame rates',()=>{
+  const phone=new Resonance(),desktop=new Resonance();phone.trigger(0);desktop.trigger(0);
+  for(let i=0;i<30;i++)phone.step(1/30);
+  for(let i=0;i<60;i++)desktop.step(1/60);
+  assert.ok(Math.abs(phone.energy-desktop.energy)<1e-10);
+  phone.step(3);assert.equal(phone.energy,0);phone.reset();assert.equal(phone.energy,0);
+});

diff --git a/src/scene-layout.js b/src/scene-layout.js
@@ -1,0 +1,24 @@
+import {heartSurface} from './sculptures.js';
+
+const TAU=Math.PI*2;
+export const WORLD_STAGES={
+  saturn:[['星环',0],['轨道',.45],['星系',1]],
+  heart:[['凝聚',0],['心动',.42],['星团',1]],
+  tree:[['成树',0],['流光',.5],['星雨',1]],
+  flower:[['花苞',0],['盛放',.55],['花雨',1]],
+  ocean:[['静游',0],['潮汐',.48],['微光群',1]],
+};
+
+// Randomized volume sampling keeps a low-quality prefix spatially complete.
+export function heartCloud(random){
+  const p=heartSurface(Math.acos(random()*2-1),random()*TAU),r=Math.cbrt(random());
+  return[p[0]*r*1.62,(p[1]+.35)*r*1.45-.25,p[2]*r*1.65];
+}
+export function galaxyArm(random,index){
+  const radius=.8+Math.sqrt(random())*5.6,angle=index%4/4*TAU+radius*.58+(random()-.5)*.45;
+  return[Math.cos(angle)*radius,Math.sin(angle)*radius*.45+(random()-.5)*.65,Math.sin(angle)*radius*.58];
+}
+export function oceanCurrent(random,index){
+  const level=(index*.61803398875)%1,angle=index*2.3999632297,radius=.9+Math.sqrt(random())*4.7;
+  return[Math.cos(angle)*radius,(level-.5)*8.3,Math.sin(angle)*2.9+(random()-.5)*.5];
+}

diff --git a/src/resonance.js b/src/resonance.js
@@ -1,0 +1,7 @@
+export class Resonance {
+  constructor(){this.reset();}
+  reset(){this.age=10;this.energy=0;this.lastTrigger=-Infinity;this.armed=true;}
+  trigger(time){if(time-this.lastTrigger<450)return false;this.lastTrigger=time;this.age=0;this.energy=1;return true;}
+  observe(openness,time){if(openness<.25)this.armed=true;if(this.armed&&openness>.72){this.armed=false;return this.trigger(time);}return false;}
+  step(delta){this.age+=Math.max(0,delta);this.energy=Math.exp(-this.age*2.6);if(this.energy<.004)this.energy=0;return this.energy;}
+}

diff --git a/README.md b/README.md
@@ -4,17 +4,19 @@
 
 **公开体验地址：https://zhangjian-jiaohu.pages.dev/**
 
-当前版本为 **2.1.0 体验完善版**：首次访问先播放一段可随时接管的演绎，触屏与鼠标探索无需摄像头；手势资源按需下载并显示真实进度。增加持续未识别和画面偏暗提示、三维画面中断恢复、系统减少动态偏好与手动开关，以及图片保存、原生分享和可还原作品形态的体验链接。
+当前版本为 **2.2.0 光影回应版**：爱心增加流动刻纹，展开后由立体小爱心填满星团；星球沿螺旋星臂展开，水母沿高低错落的水流游散，花瓣沿弧线飞离花心。每件作品提供三个可直接选择的观赏阶段，轻触、鼠标点击或张开手掌可以唤起光波与微光。手机针对不同作品和展开程度调整取景，让作品与操作区保持清楚的层次。
+
+保留首次演绎、可选手势与本地照片、识别资源按需下载、摄像头提示、画面恢复、减少动态、保存图片和体验链接分享。
 
 ## 五种造型
 
 | 造型 | 聚合 | 展开 |
 | --- | --- | --- |
 | 星际引力 | 带细腻星环的立体行星 | 许多自带星环的小行星 |
-| 心动星团 | 饱满的三维心形，轻轻跳动 | 一颗颗独立的立体小爱心 |
+| 心动星团 | 带细腻流光刻纹的饱满三维心形 | 一颗颗独立的立体小爱心，填满有前后纵深的星团 |
 | 记忆之树 | 带立体枝叶、玻璃挂饰与暖色灯带的圣诞树 | 金色星饰与珍藏照片 |
 | 光之花园 | 从花苞到层叠柔光花，带花瓣纹理 | 花瓣离开花心，随风飘散 |
-| 微光深海 | 带波纹裙边与柔软触腕的透明水母 | 一群大小不同的发光水母 |
+| 微光深海 | 光束下带柔软触腕的透明水母 | 沿高低不同的水流漂游的发光水母群 |
 
 ## 开始体验
 
@@ -38,6 +40,10 @@
 | 双手拉开、靠拢 | 放大、缩小场景 |
 
 手机也支持单指拖动与双指缩放。电脑可以拖动、滚轮缩放，空格键切换展开与聚合。电脑作品右侧提供展开、定格、复位和保存图片按钮；手机点击画面右侧「⋯」即可展开这些操作。
+
+轻触空白处或作品会唤起一圈光波；已经加入照片时，轻触照片仍优先欣赏照片。把焦点移到三维画面后，按回车键也能触发光影回应。手势模式下，完整张开手掌会触发一次回应，收拢再张开可以重新触发，持续张开不会反复闪烁。减少动态模式保留轻微的静态光晕反馈。
+
+滑杆下方提供三个观赏阶段：星环／轨道／星系、凝聚／心动／星团、成树／流光／星雨、花苞／盛放／花雨、静游／潮汐／微光群。点击阶段会交回鼠标或触屏控制，手势相机关闭，避免手势立刻覆盖手动选择；滑杆也采用相同规则。重新开启手势即可继续隔空控制。
 
 拖动聚散滑杆可以慢慢探索中间形态；花朵依次经历花苞、绽放、飘散。点击「沉浸观看」，会收起介绍与造型卡，把画面交给三维世界；摄像头开关仍然保留，点击「返回操作」即可恢复界面。
 
